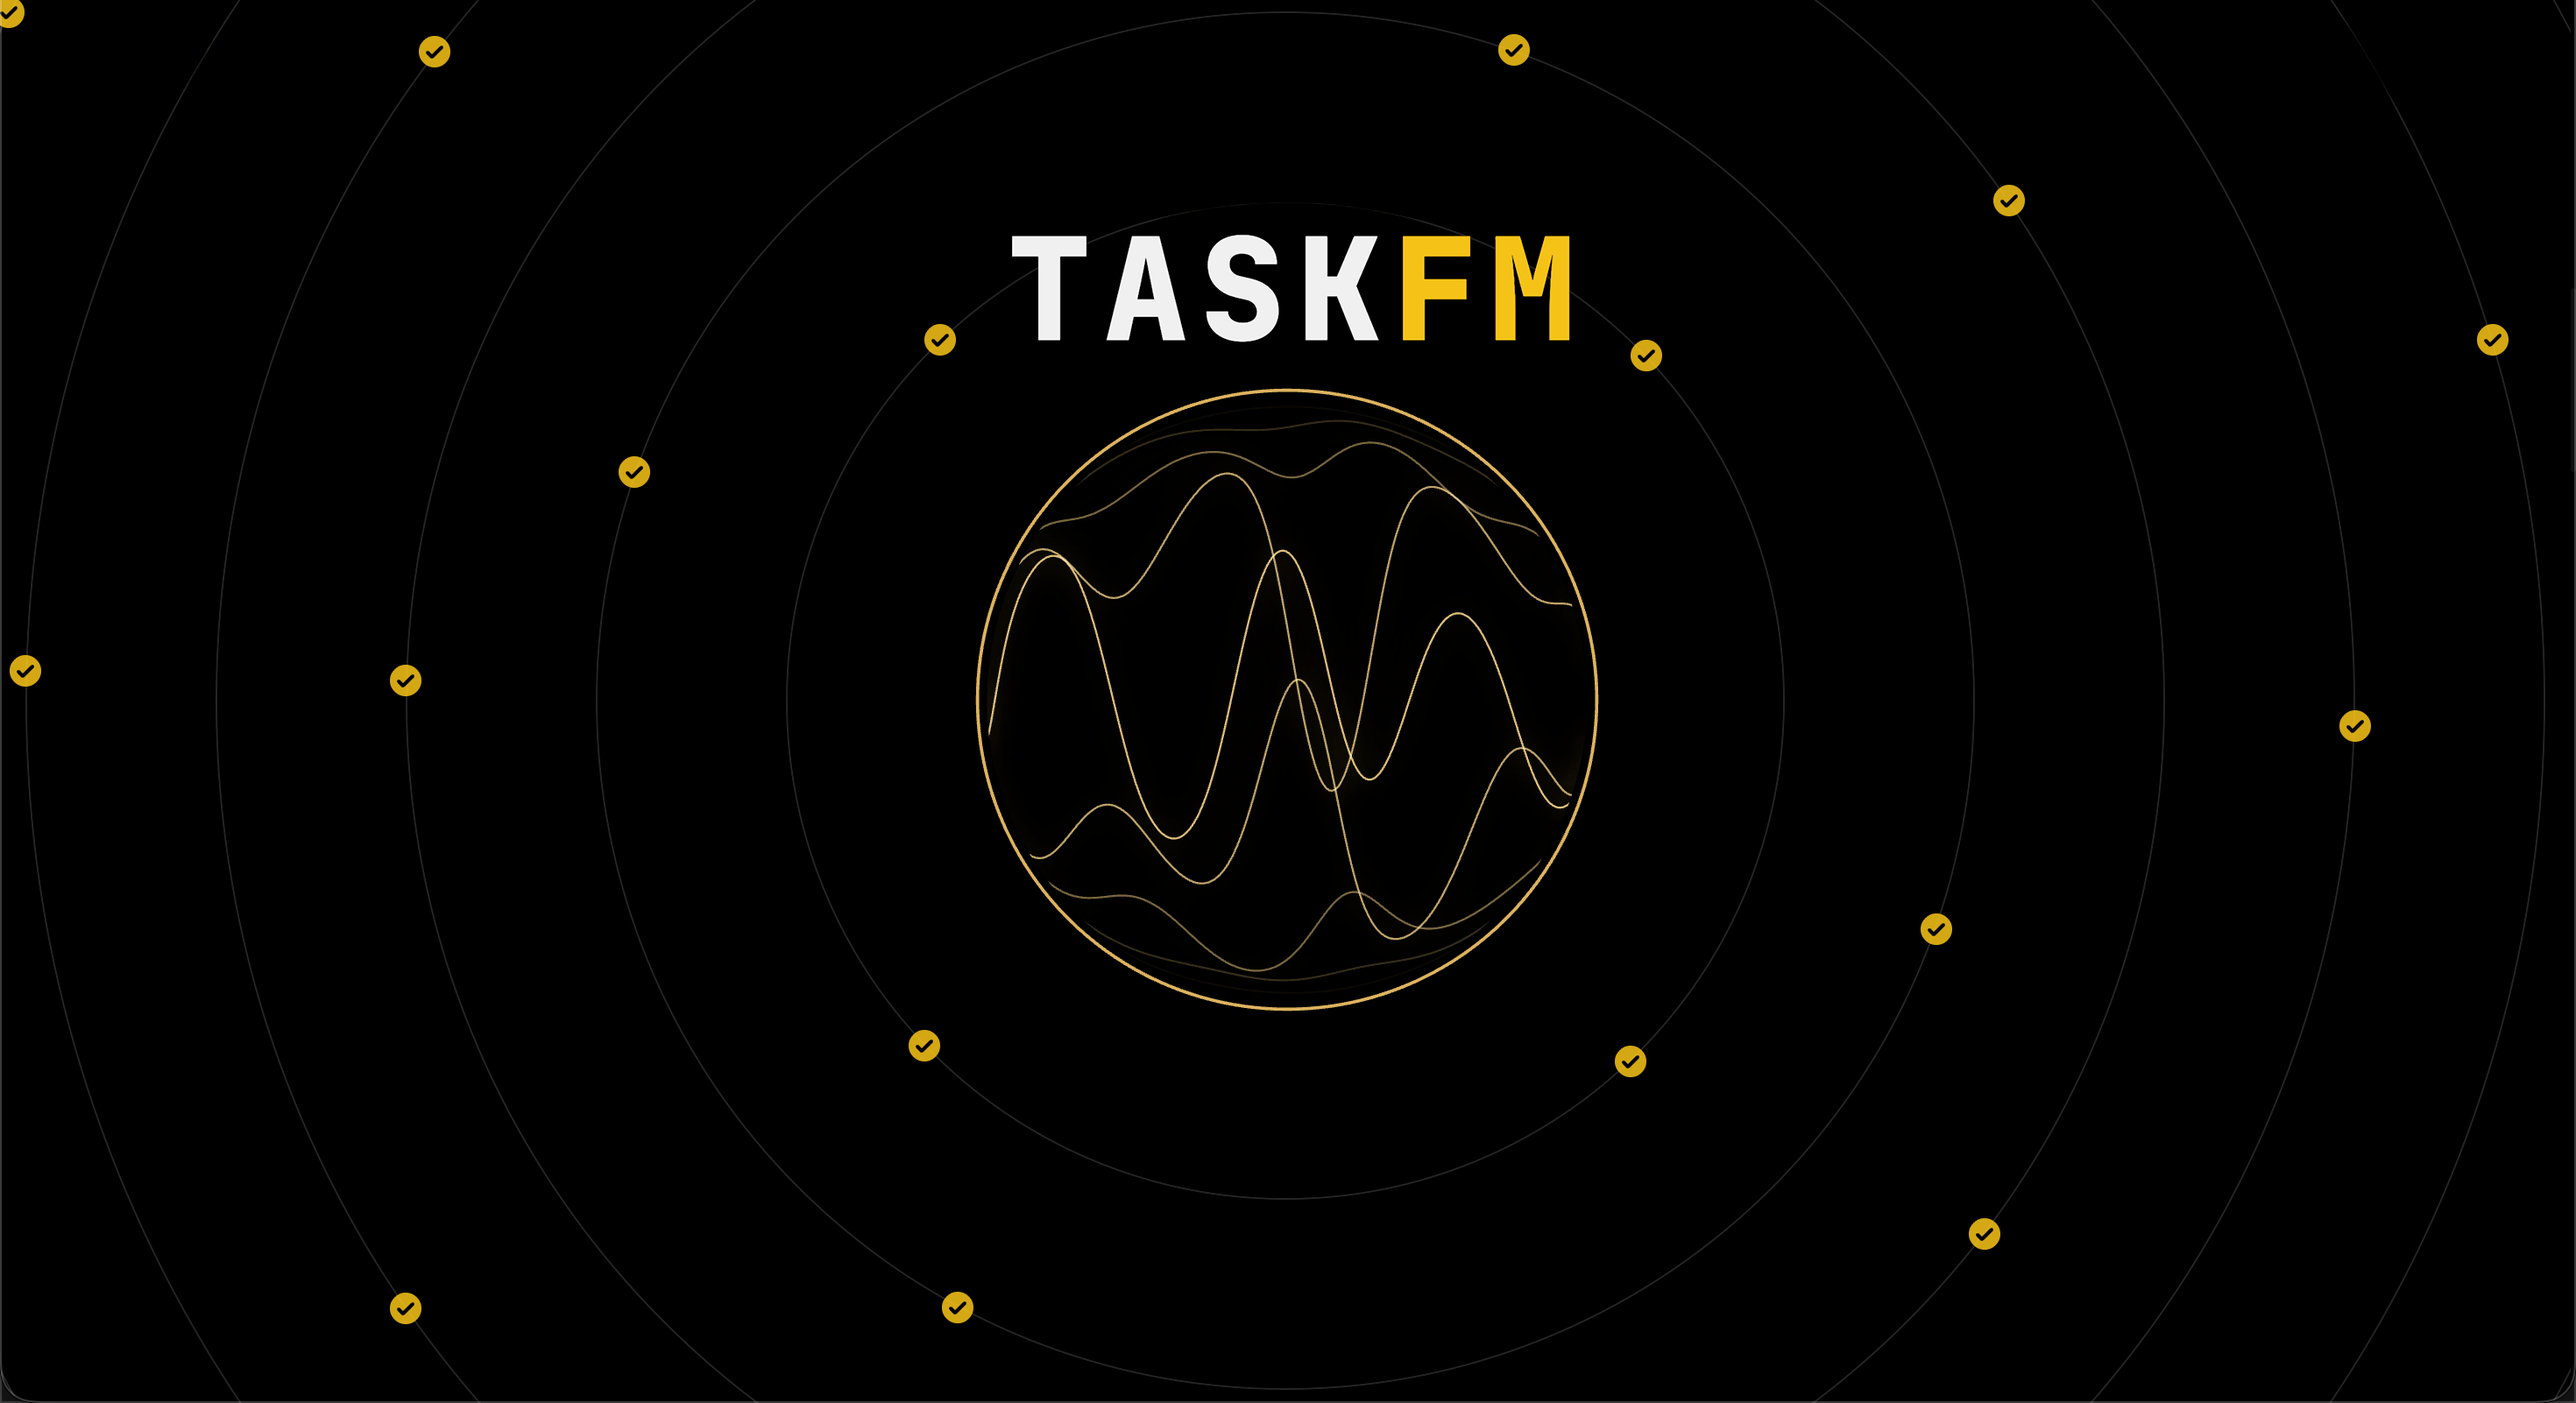
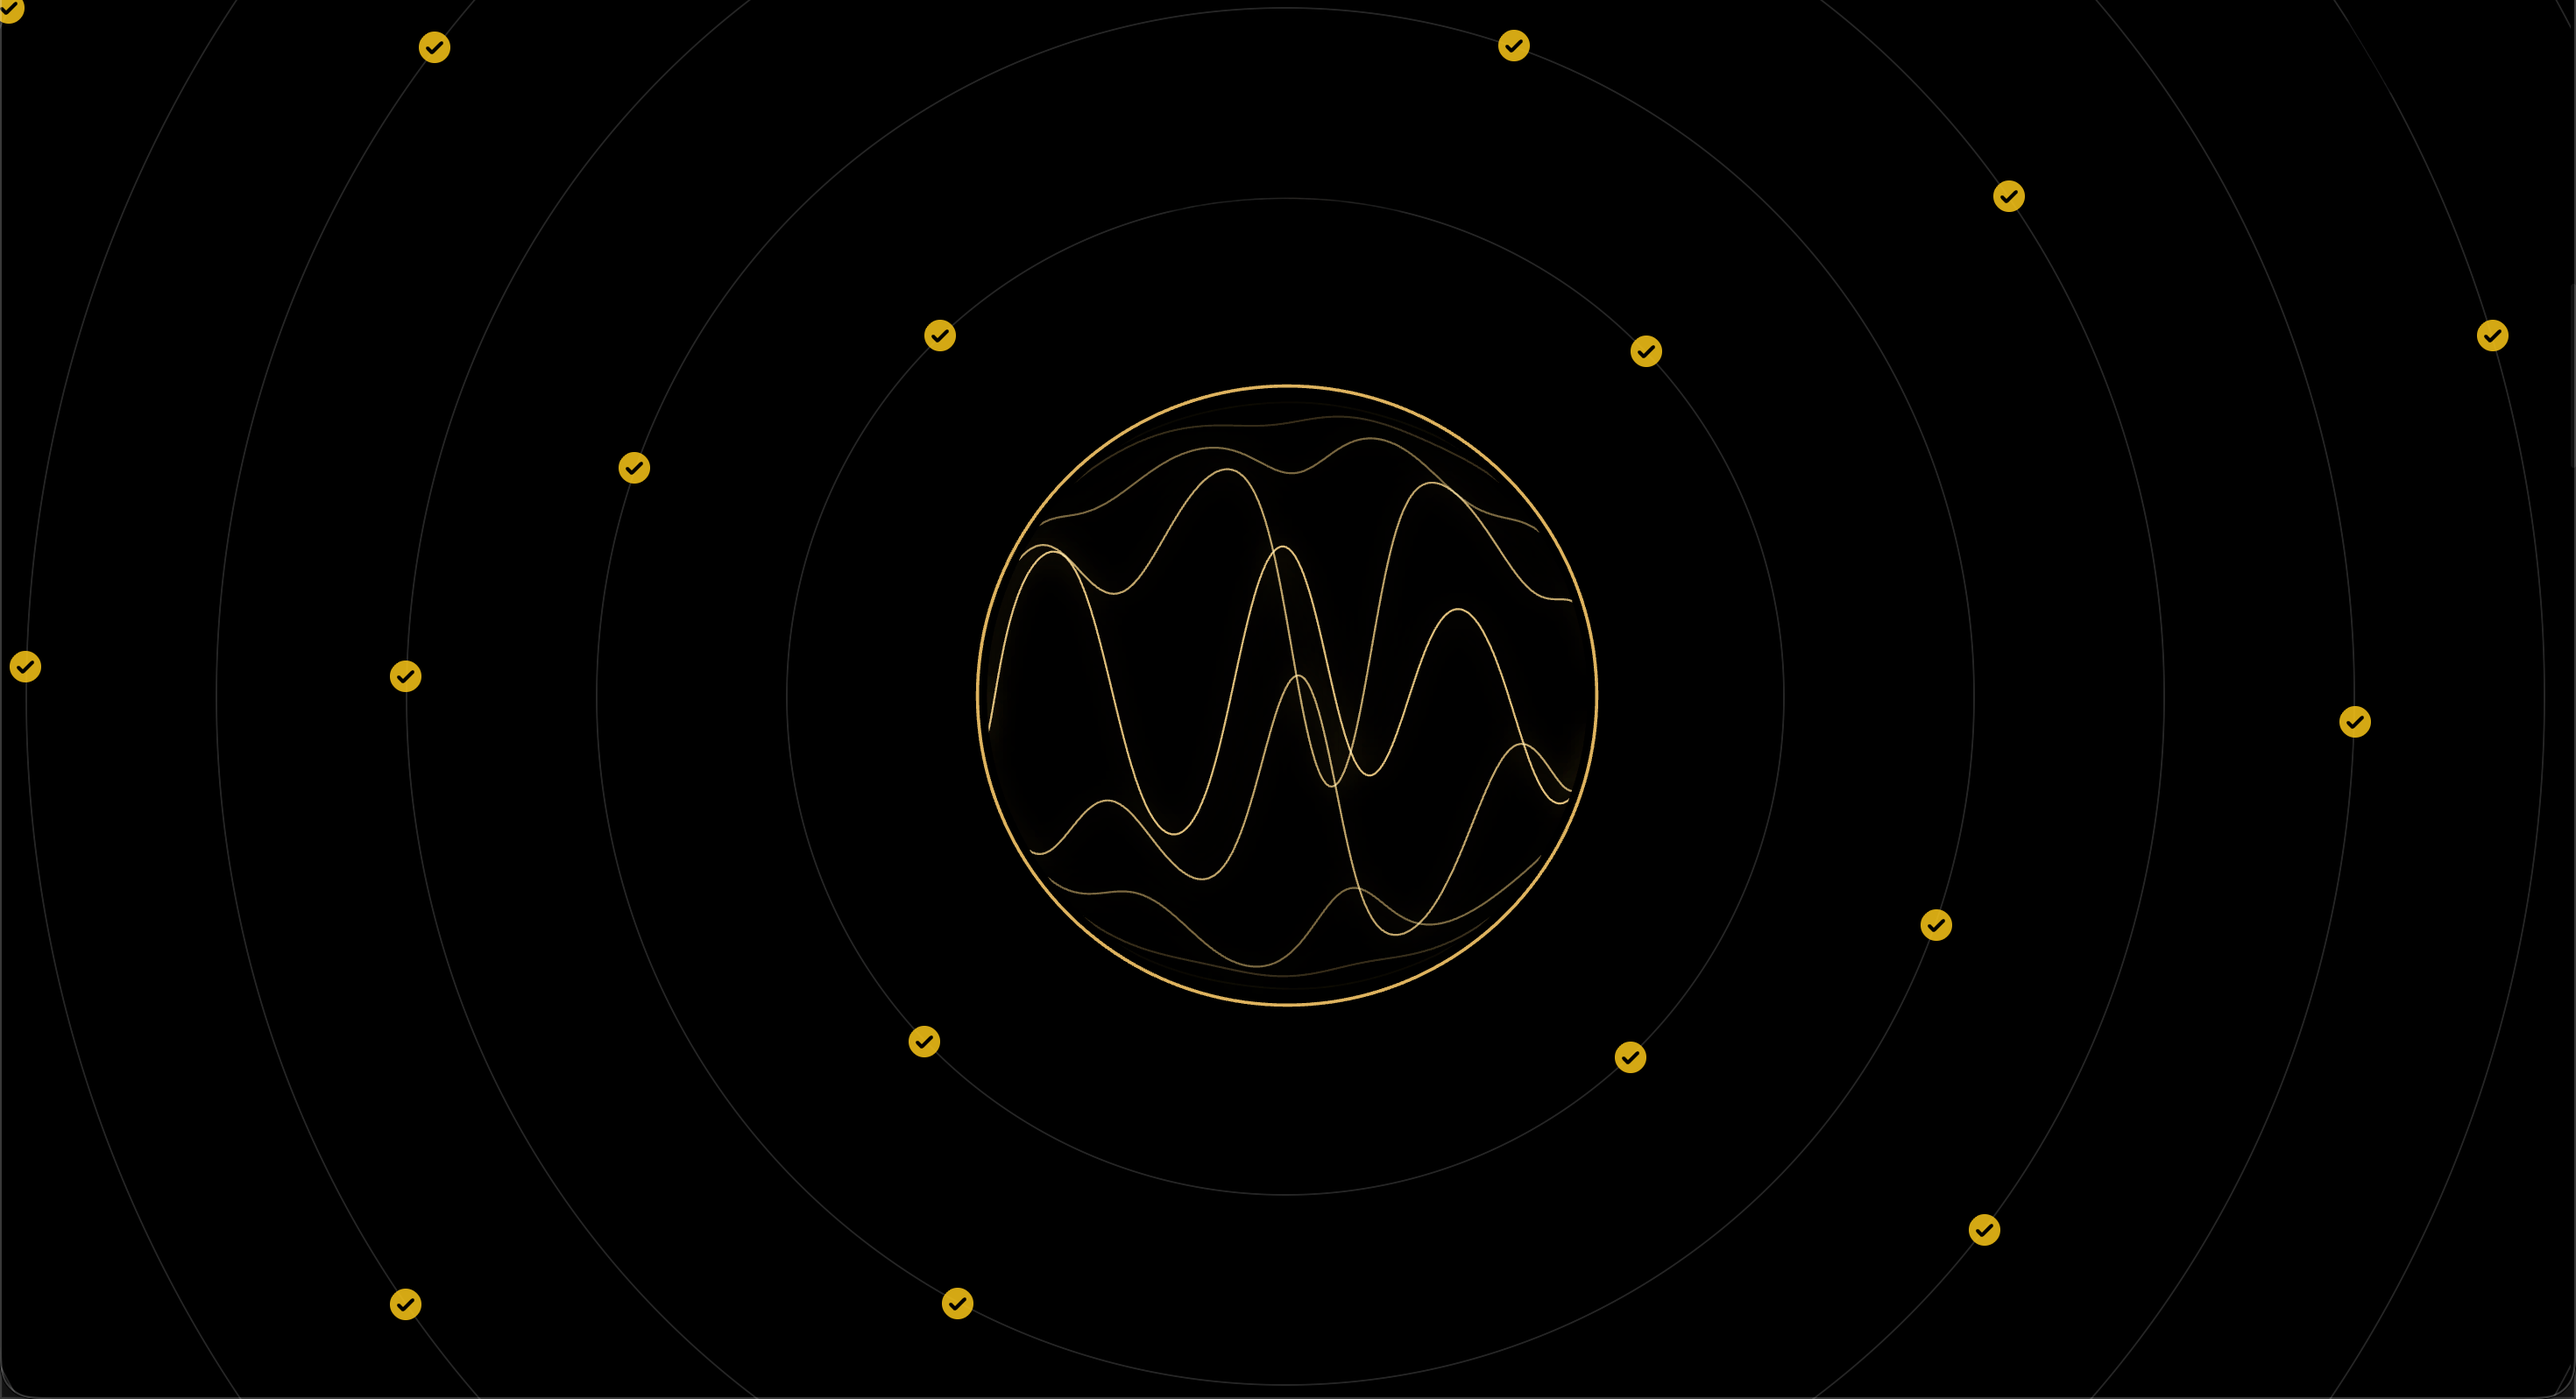
Update OG image to wave model screenshot

diff --git a/index.html b/index.html
@@ -8,7 +8,7 @@
   <meta property="og:description" content="Add tasks. Check them off. Hear what happens."/>
   <meta property="og:image"       content="images/og.png"/>
   <meta property="og:image:width"  content="2940"/>
-  <meta property="og:image:height" content="1602"/>
+  <meta property="og:image:height" content="1597"/>
   <meta property="og:type"        content="website"/>
   <meta name="twitter:card"       content="summary_large_image"/>
   <meta name="twitter:image"      content="images/og.png"/>
